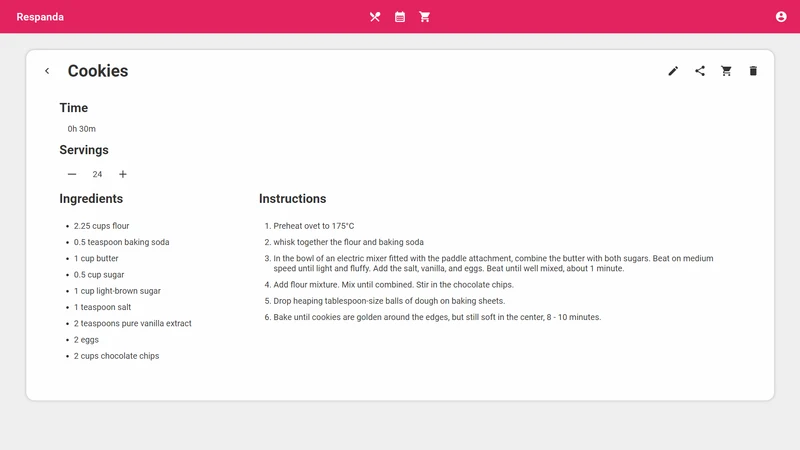
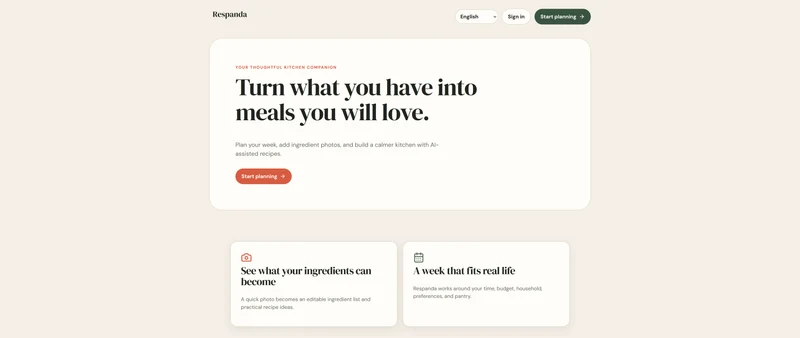
Updated Respanda

diff --git a/src/template.html b/src/template.html
@@ -427,7 +427,7 @@
                 <h3 class="project-wrapper__text-title">Respanda</h3>
                 <div>
                   <p class="mb-4">
-                    Save recipes, create shopping lists, and plan meals with a calendar.
+                    Plan meals, add ingredient photos, and turn the ingredients you already have into recipes.
                   </p>
                 </div>
                 <a target="_blank" class="cta-btn cta-btn--hero" href="https://respanda.jeme.app">